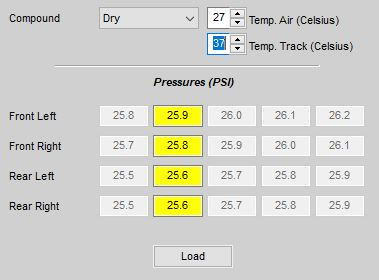
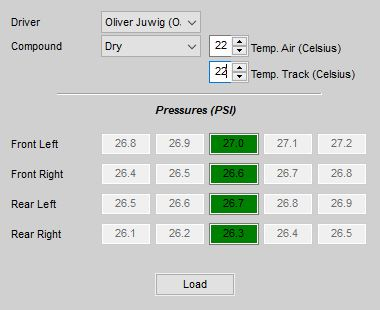
Driver selection in tyre pressure advisor

diff --git a/Docs/Releases.md b/Docs/Releases.md
@@ -4,10 +4,11 @@
   3. The position on the screen where info and progress overlays are displayed, can now be configured in the [UI settings](https://github.com/SeriousOldMan/Simulator-Controller/wiki/Using-Simulator-Controller#customizing-controller-notifications).
   4. The session synchronization can be [temporarily disabled](https://github.com/SeriousOldMan/Simulator-Controller/wiki/Team-Server#connecting-to-a-session) in the "Race Center", while you are working with the data.
   5. The Team Server now supports synchronization of telemetry data between different members of a team. The documentation for [team management](https://github.com/SeriousOldMan/Simulator-Controller/wiki/Team-Server#managing-teams) of the Team server itself, as well as the [database configuration](https://github.com/SeriousOldMan/Simulator-Controller/wiki/Virtual-Race-Engineer#database-configuration) of the "Session Database" has been heavily revised.
-  6. Refactoring of the translation framework to better support the new Spanish translation.
-  7. Thanks to the great work of Jose Krilin, we have an initial version of a Spanish translation. The UI has been translated for the most part and will be polished in the next weeks and you can also expect a working version of the voice generation and recognition soon.
-  8. Fixed startup of Race Spotter in situations with a very short rolling or even a standing start.
-  9. New car models for "Setup Advisor":
+  6. A driver may be selected in "Session Database" when [looking for tyre pressures](https://github.com/SeriousOldMan/Simulator-Controller/wiki/Virtual-Race-Engineer#tyre-pressure-advisor). This very helpful when looking for cold tyre pressures for your team mate during a team race.
+  7. Refactoring of the translation framework to better support the new Spanish translation.
+  8. Thanks to the great work of Jose Krilin, we have an initial version of a Spanish translation. The UI has been translated for the most part and will be polished in the next weeks and you can also expect a working version of the voice generation and recognition soon.
+  9. Fixed startup of Race Spotter in situations with a very short rolling or even a standing start.
+  10. New car models for "Setup Advisor":
       - Assetto Corsa:
 	    - Audi TT RS VLN
 

diff --git a/README.md b/README.md
@@ -45,7 +45,7 @@ Please read the [Release Notes](https://github.com/SeriousOldMan/Simulator-Contr
 
 #### Latest development build
 
-[4.4.0.0-dev](https://www.dropbox.com/s/6o3az83tasq7zrx/Simulator%20Controller%204.4.0.0-dev.zip?dl=1) (Early build for 4.4.0. New features: Full revision of Team Server, Telemetry data can be synchronized with the Team Server, Position settings for status windows (Progress Bar, Message), Actice connections to the Team Server can be listed in "Server Administration", Session synchronization in "Race Center" can be disabled using a menu command, New car models for "Setup Advisor", Refactoring of the translation framework to support the upcoming Spanish translation, Initial version of a Spanish translation. Mostly untested, but incl. documentation.)
+[4.4.0.0-dev](https://www.dropbox.com/s/6o3az83tasq7zrx/Simulator%20Controller%204.4.0.0-dev.zip?dl=1) (Early build for 4.4.0. New features: Full revision of Team Server, Telemetry data can be synchronized with the Team Server, Position settings for status windows (Progress Bar, Message), Actice connections to the Team Server can be listed in "Server Administration", Session synchronization in "Race Center" can be disabled using a menu command, New car models for "Setup Advisor", Refactoring of the translation framework to support the upcoming Spanish translation, Initial version of a Spanish translation, Choose driver in "Session Database" for tyre pressures. Mostly untested, but incl. documentation.)
 
 Please read the [Release Notes](https://github.com/SeriousOldMan/Simulator-Controller/wiki/Release-Notes) and - even more important - the release specific [Update Notes](https://github.com/SeriousOldMan/Simulator-Controller/wiki/Update-Notes#release-440) of this version and all the versions you might have skipped, before installing and using this version.
 

diff --git a/Docs/Virtual Race Engineer.md b/Docs/Virtual Race Engineer.md
@@ -585,9 +585,11 @@ Here you will get a recommendation for initial cold tyre pressures, if a matchin
 
 Notes:
 
-  1. If the "Session Database" tool has been [started by the "Race Settings" tool](https://github.com/SeriousOldMan/Simulator-Controller/wiki/Virtual-Race-Engineer#tab-race), you can transfer the current tyre pressure and compound information to the *Race Settings* by pressing the "Load" button.
+  1. If you choose a specific driver in the "Driver" menu, only the tyre pressures of this driver are shown, if available.
 
-  2. You can configure using the [settings in the "Session Database"](https://github.com/SeriousOldMan/Simulator-Controller/wiki/Virtual-Race-Engineer#race-settings-1) the session types, from which tyre pressure data will be collected and stored into the database by Jona. Default is to collect tyre pressure data during practice and race sessions.
+  2. If the "Session Database" tool has been [started by the "Race Settings" tool](https://github.com/SeriousOldMan/Simulator-Controller/wiki/Virtual-Race-Engineer#tab-race), you can transfer the current tyre pressure and compound information to the *Race Settings* by pressing the "Load" button.
+
+  3. You can configure using the [settings in the "Session Database"](https://github.com/SeriousOldMan/Simulator-Controller/wiki/Virtual-Race-Engineer#race-settings-1) the session types, from which tyre pressure data will be collected and stored into the database by Jona. Default is to collect tyre pressure data during practice and race sessions.
 
 #### Automation
 
